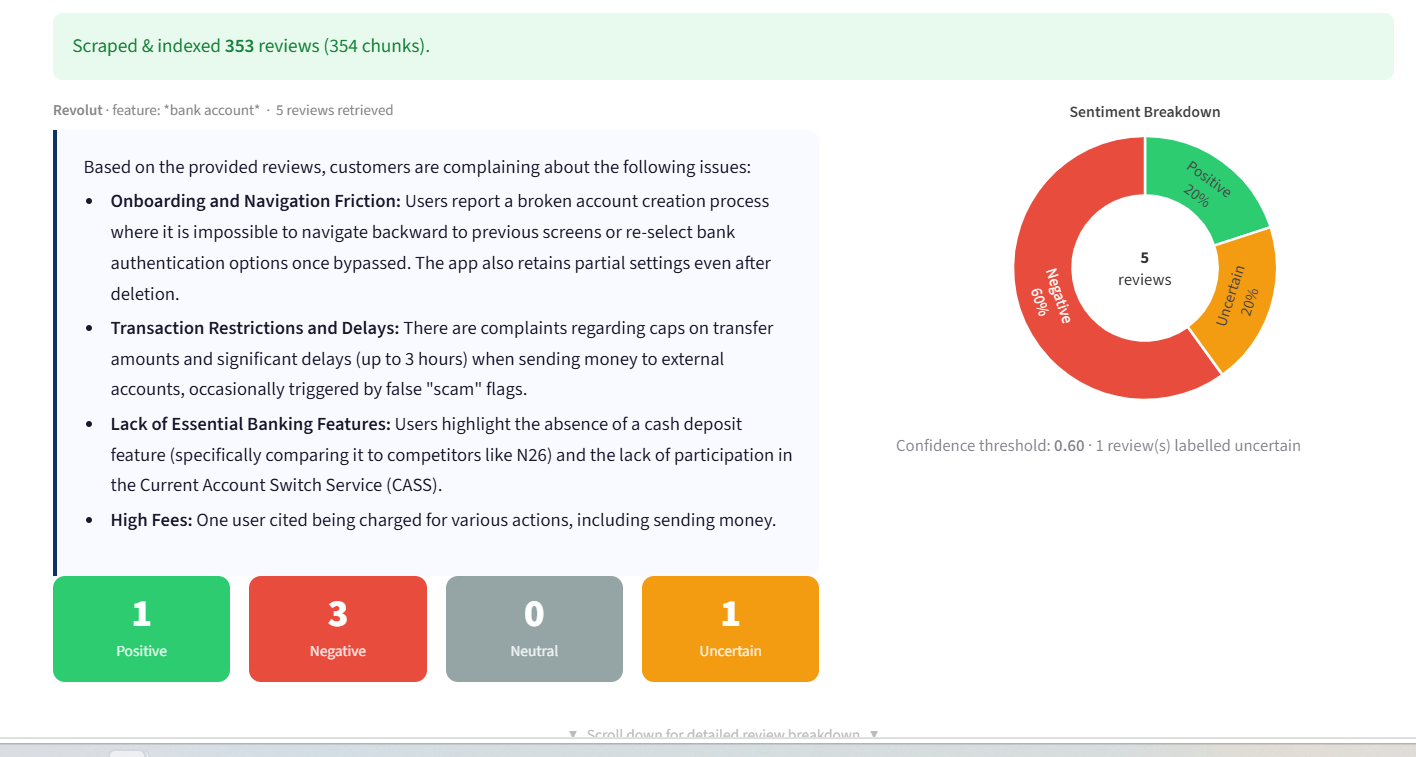
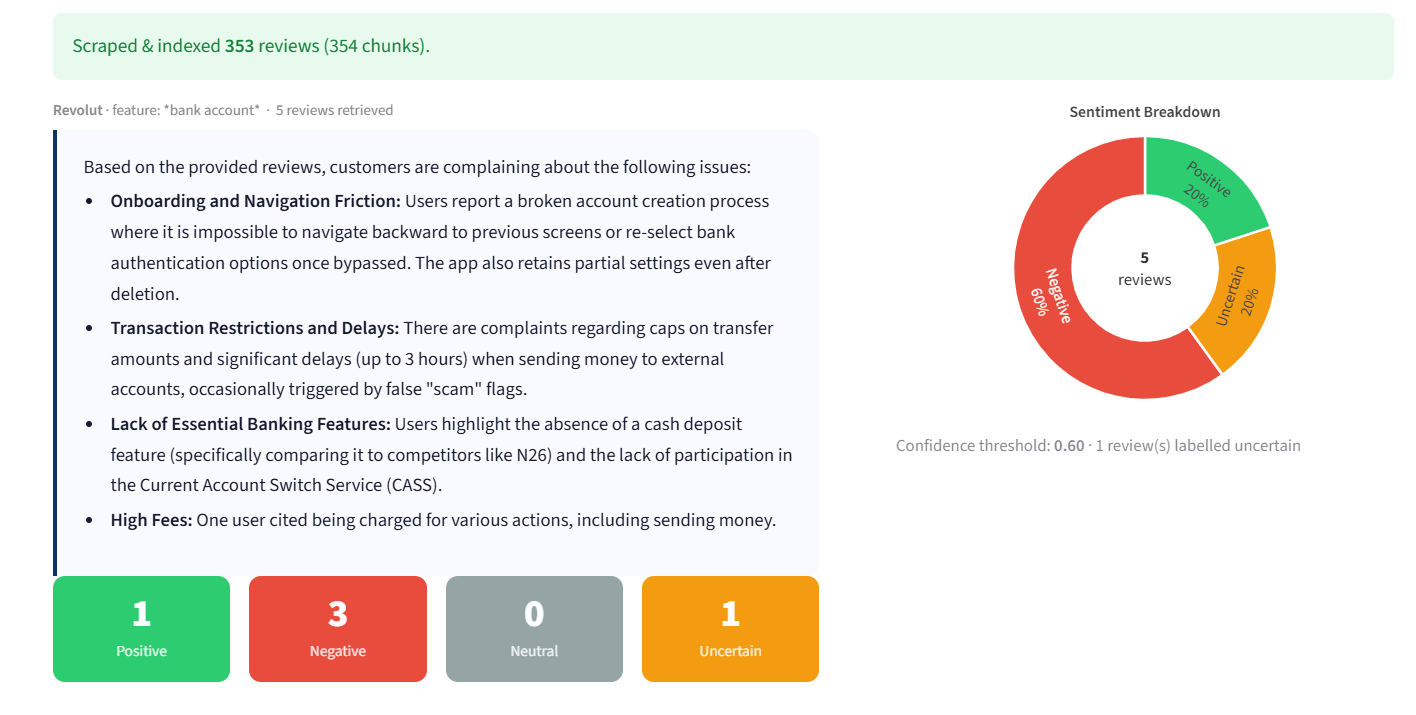
Fix case study layout on desktop and at phone width
- NexRead: phone screenshots in place of mostly empty desktop captures,
  Approach text left with figure right, stats strip under the title,
  divider above the closing note
- RAG: View on GitHub moved into the title block, screenshot cropped
  to remove a scrollbar artifact
- All three: minimum title size 26px so PaymentIntelligenceOS no longer
  overflows at 380px, images link to the full-size file, tighter
  section spacing below 640px

diff --git a/case-studies/nexread.html b/case-studies/nexread.html
@@ -41,7 +41,7 @@ p{margin:0}
 
 /* hero */
 .hero{display:flex;flex-direction:column;gap:24px;padding:72px 0 56px;border-bottom:2px solid var(--rule)}
-.hero h1{font-size:clamp(34px,5.6vw,64px);line-height:1;letter-spacing:-.035em;max-width:20ch}
+.hero h1{font-size:clamp(26px,5.6vw,64px);line-height:1;letter-spacing:-.035em;max-width:20ch}
 .hero p{max-width:60ch;font-size:clamp(17px,2vw,21px);line-height:1.5;color:var(--ink-2);text-wrap:pretty}
 .tags{display:flex;flex-wrap:wrap;gap:8px}
 .tag{font-size:12px;letter-spacing:.1em;text-transform:uppercase;font-weight:700;padding:6px 10px;background:var(--accent-200);color:var(--accent-800)}
@@ -72,6 +72,9 @@ footer{padding:28px 24px 48px;font-size:13px;color:var(--ink-3)}
 @media (max-width:860px){
   .side{grid-template-columns:1fr;gap:24px}
 }
+@media (max-width:640px){
+  .section{padding:44px 0}
+}
 
 /* stats strip */
 .stats{display:grid;grid-template-columns:repeat(3,minmax(0,1fr));border-top:2px solid var(--rule);border-bottom:2px solid var(--rule);margin-top:32px}
@@ -84,7 +87,8 @@ footer{padding:28px 24px 48px;font-size:13px;color:var(--ink-3)}
 
 /* pull quote */
 .prose p.pull{border-left:2px solid var(--accent);padding:2px 0 2px 20px;color:var(--ink);font-weight:600}
-.prose p.note{font-size:13px;line-height:1.45;color:var(--ink-3)}
+.prose p.note{font-size:13px;line-height:1.45;color:var(--ink-3);border-top:2px solid var(--divider);padding-top:14px;margin-top:12px}
+.side figure.phone-fig{max-width:340px}
 
 @media (max-width:640px){
   .stats{grid-template-columns:1fr}
@@ -112,6 +116,12 @@ footer{padding:28px 24px 48px;font-size:13px;color:var(--ink-3)}
     <div class="tags"><span class="tag">AI Recommendations</span><span class="tag">LLM ranking</span><span class="tag">0 to 1</span><span class="tag">Live</span></div>
   </section>
 
+  <section class="stats">
+    <div class="stat"><b>Over 100</b><span>curated sources</span></div>
+    <div class="stat"><b>1,900+</b><span>pieces ranked</span></div>
+    <div class="stat"><b>~3s</b><span>per brief, under a penny</span></div>
+  </section>
+
   <section class="section">
     <div class="kicker">01</div>
     <h2>Problem</h2>
@@ -126,24 +136,16 @@ footer{padding:28px 24px 48px;font-size:13px;color:var(--ink-3)}
   <section class="section">
     <div class="kicker">02</div>
     <h2>Approach</h2>
-    <div class="prose">
-      <p>The input is a sentence you finish in three taps. Where you are, what you are after, and the specific thing. "I am job searching now and I am stuck on not getting screens." Six situations, each offering the intents that make sense for it, and a final blank that is either a short list or a search over the topics the library genuinely covers.</p>
-      <p>Behind it sit two halves that never run in the same place. Overnight, a pipeline reads a curated set of public sources, works out what each new piece is about, who it is pitched at and whether it has substance, and packs the result into one compact bundle. The live site loads that bundle into memory and spends one model call per visit turning the best candidates into two or three named areas, each with a match score and a one-line reason that has to point at something in the piece itself.</p>
-    </div>
-    <div class="stats">
-      <div class="stat"><b>Over 100</b><span>curated sources</span></div>
-      <div class="stat"><b>1,900+</b><span>pieces ranked</span></div>
-      <div class="stat"><b>~3s</b><span>per brief, under a penny</span></div>
-    </div>
-
     <div class="side">
-      <figure>
-        <img src="../assets/case-studies/nexread-builder.png" alt="The sentence builder partway through. The sentence reads &quot;I am job searching now and I want to what I am after&quot;, with the first answer filled in and the second blank highlighted. Below it, four choices: fix a specific problem, target a role, keep up with a field, figure out what's next. A counter reads 1 of 3 answered." width="3280" height="3312" loading="lazy" decoding="async">
-        <figcaption>The whole input. Three taps, no account, and nothing collected about the reader: no sign-in, no profile pull, no browsing history.</figcaption>
-      </figure>
       <div class="prose">
+        <p>The input is a sentence you finish in three taps. Where you are, what you are after, and the specific thing. "I am job searching now and I am stuck on not getting screens." Six situations, each offering the intents that make sense for it, and a final blank that is either a short list or a search over the topics the library genuinely covers.</p>
+        <p>Behind it sit two halves that never run in the same place. Overnight, a pipeline reads a curated set of public sources, works out what each new piece is about, who it is pitched at and whether it has substance, and packs the result into one compact bundle. The live site loads that bundle into memory and spends one model call per visit turning the best candidates into two or three named areas, each with a match score and a one-line reason that has to point at something in the piece itself.</p>
         <p>The library is a curated sample, not an index of the field. It covers product, engineering, recruiting, design, data, finance, sales, marketing, operations, people leadership, and more recently medicine, law and research, and it says "not covered yet" rather than guessing when a question falls outside that.</p>
       </div>
+      <figure class="phone-fig">
+        <a href="../assets/case-studies/nexread-phone-builder.png"><img src="../assets/case-studies/nexread-phone-builder.png" alt="The sentence builder partway through. The sentence reads &quot;I am job searching now and I want to what I am after&quot;, with the first answer filled in and the second blank highlighted. Below it, four choices: fix a specific problem, target a role, keep up with a field, figure out what's next. A counter reads 1 of 3 answered." width="2066" height="3312" loading="lazy" decoding="async"></a>
+        <figcaption>The whole input. Three taps, no account, and nothing collected about the reader: no sign-in, no profile pull, no browsing history.</figcaption>
+      </figure>
     </div>
   </section>
 
@@ -162,8 +164,8 @@ footer{padding:28px 24px 48px;font-size:13px;color:var(--ink-3)}
         <p><strong>Tell people what to skip.</strong> An optional reads section names things that are widely shared and wrong for this particular person, with the mismatch stated. No engagement-optimised feed will ever do that, which is exactly why it is worth having.</p>
         <p><strong>Collect nothing, and stay inside the rules.</strong> No account, no sign-in, no history, no IP address stored. Profiles on networks that forbid automated access are never fetched, and a site telling us not to read something is respected rather than worked around. One feature was rebuilt against a different provider mid-build for precisely that reason.</p>
       </div>
-      <figure>
-        <img src="../assets/case-studies/nexread-result.png" alt="A finished read titled &quot;Keeping up with clinical developments in medicine&quot;, built from the answers job searching now, keep up with a field, and Medicine. Two ranked newsletter pieces sit under the area heading Clinical practice updates, numbered 01 and 02. Each shows its publication, reading time, a match score and a substance score out of ten, and a one-line reason naming what the piece covers." width="3280" height="3260" loading="lazy" decoding="async">
+      <figure class="phone-fig">
+        <a href="../assets/case-studies/nexread-phone-result.png"><img src="../assets/case-studies/nexread-phone-result.png" alt="A finished read titled &quot;Keeping up with clinical developments in medicine&quot;, built from the answers job searching now, keep up with a field, and Medicine. Two ranked newsletter pieces sit under the area heading Clinical practice updates, numbered 01 and 02. Each shows its publication, reading time, a match score and a substance score out of ten, and a one-line reason naming what the piece covers." width="2066" height="3260" loading="lazy" decoding="async"></a>
         <figcaption>One brief: ranked pieces with a reason each, the area they belong to, books as background reading, and people who coach that area.</figcaption>
       </figure>
     </div>

diff --git a/case-studies/paymentintelligenceos.html b/case-studies/paymentintelligenceos.html
@@ -41,7 +41,7 @@ p{margin:0}
 
 /* hero */
 .hero{display:flex;flex-direction:column;gap:24px;padding:72px 0 56px;border-bottom:2px solid var(--rule)}
-.hero h1{font-size:clamp(34px,5.6vw,64px);line-height:1;letter-spacing:-.035em;max-width:20ch}
+.hero h1{font-size:clamp(26px,5.6vw,64px);line-height:1;letter-spacing:-.035em;max-width:20ch}
 .hero p{max-width:60ch;font-size:clamp(17px,2vw,21px);line-height:1.5;color:var(--ink-2);text-wrap:pretty}
 .tags{display:flex;flex-wrap:wrap;gap:8px}
 .tag{font-size:12px;letter-spacing:.1em;text-transform:uppercase;font-weight:700;padding:6px 10px;background:var(--accent-200);color:var(--accent-800)}
@@ -71,6 +71,9 @@ footer{padding:28px 24px 48px;font-size:13px;color:var(--ink-3)}
 
 @media (max-width:860px){
   .side{grid-template-columns:1fr;gap:24px}
+}
+@media (max-width:640px){
+  .section{padding:44px 0}
 }
 </style>
 </head>
@@ -109,7 +112,7 @@ footer{padding:28px 24px 48px;font-size:13px;color:var(--ink-3)}
       <p>Fifty merchants across the US, Canada, the UK, Japan and India. Forty-eight crawled cleanly. 170 signatures covering 61 vendors across platform, PSP, wallet, BNPL and checkout vendor. Fifty merchants is a sample, not a census. The regional finding below is a hypothesis worth testing at scale, not a market statistic.</p>
     </div>
     <figure>
-      <img src="../assets/case-studies/pio-explorer.png" alt="The PaymentIntelligenceOS merchant explorer: filter facets counting country, platform, PSP, wallet, BNPL and checkout vendor, above a table of crawled merchants where inferred detections carry an INFERRED label.">
+      <a href="../assets/case-studies/pio-explorer.png"><img src="../assets/case-studies/pio-explorer.png" alt="The PaymentIntelligenceOS merchant explorer: filter facets counting country, platform, PSP, wallet, BNPL and checkout vendor, above a table of crawled merchants where inferred detections carry an INFERRED label."></a>
       <figcaption>The explorer: every facet counted across the sample, and each detection carrying its state — sighted, possible or inferred — in the row itself rather than in a footnote.</figcaption>
     </figure>
   </section>
@@ -123,7 +126,7 @@ footer{padding:28px 24px 48px;font-size:13px;color:var(--ink-3)}
         <p><strong>Three states, not one.</strong> Sighted, possible and inferred are recorded separately and shown separately. This matters most for PSP: on a Shopify store the processor cannot be sighted at all, because Shopify Payments is server-side and emits no client-side script. PSP coverage is 10 percent sighted and 75 percent once the platform-native inference is applied. Reporting only the higher number would have been the flattering choice and the wrong one.</p>
       </div>
       <figure>
-        <img src="../assets/case-studies/pio-merchant-herschel.png" alt="Merchant detail for herschel.com, showing Stripe sighted as the PSP with an evidence row citing psp.stripe.js on the payment_info page.">
+        <a href="../assets/case-studies/pio-merchant-herschel.png"><img src="../assets/case-studies/pio-merchant-herschel.png" alt="Merchant detail for herschel.com, showing Stripe sighted as the PSP with an evidence row citing psp.stripe.js on the payment_info page."></a>
         <figcaption>herschel.com, the 10 percent case: the PSP is sighted, not assumed — <code>psp.stripe.js</code> firing on the payment-info page, with the matched snippet stored next to it.</figcaption>
       </figure>
     </div>
@@ -145,7 +148,7 @@ footer{padding:28px 24px 48px;font-size:13px;color:var(--ink-3)}
         <p>The finding worth the whole exercise is regional. Half the Indian merchants sampled, five of ten, run a third-party checkout vendor between the store and the PSP: GoKwik on all five, with Shopflo showing as a weaker signal on one of them. That layer appears on no merchant in the other four countries. It changes who the commercial conversation is with, because the checkout vendor owns the payment method mix that the PSP used to own.</p>
       </div>
       <figure>
-        <img src="../assets/case-studies/pio-merchant-gokwik.png" alt="Merchant detail for beminimalist.co in India, showing GoKwik sighted as the checkout vendor, Shopflo marked possible, and the PSP only inferred from the platform.">
+        <a href="../assets/case-studies/pio-merchant-gokwik.png"><img src="../assets/case-studies/pio-merchant-gokwik.png" alt="Merchant detail for beminimalist.co in India, showing GoKwik sighted as the checkout vendor, Shopflo marked possible, and the PSP only inferred from the platform."></a>
         <figcaption>beminimalist.co: GoKwik sighted as the checkout vendor, Shopflo the weaker signal beneath it, and the PSP inferred only because no external PSP script fired on any page checked.</figcaption>
       </figure>
     </div>

diff --git a/case-studies/competitive-intel-rag.html b/case-studies/competitive-intel-rag.html
@@ -41,7 +41,8 @@ p{margin:0}
 
 /* hero */
 .hero{display:flex;flex-direction:column;gap:24px;padding:72px 0 56px;border-bottom:2px solid var(--rule)}
-.hero h1{font-size:clamp(34px,5.6vw,64px);line-height:1;letter-spacing:-.035em;max-width:20ch}
+.hero h1{font-size:clamp(26px,5.6vw,64px);line-height:1;letter-spacing:-.035em;max-width:20ch}
+.hero .link-underline{align-self:flex-start}
 .hero p{max-width:60ch;font-size:clamp(17px,2vw,21px);line-height:1.5;color:var(--ink-2);text-wrap:pretty}
 .tags{display:flex;flex-wrap:wrap;gap:8px}
 .tag{font-size:12px;letter-spacing:.1em;text-transform:uppercase;font-weight:700;padding:6px 10px;background:var(--accent-200);color:var(--accent-800)}
@@ -71,6 +72,9 @@ footer{padding:28px 24px 48px;font-size:13px;color:var(--ink-3)}
 
 @media (max-width:860px){
   .side{grid-template-columns:1fr;gap:24px}
+}
+@media (max-width:640px){
+  .section{padding:44px 0}
 }
 
 /* stats strip */
@@ -113,6 +117,7 @@ footer{padding:28px 24px 48px;font-size:13px;color:var(--ink-3)}
       <span class="tag">AI/ML</span>
       <span class="tag">0 to 1</span>
     </div>
+    <a class="link-underline" href="https://github.com/SaurabhS-pm/competitive-intel-rag">View on GitHub</a>
   </section>
 
   <section class="stats">
@@ -140,7 +145,7 @@ footer{padding:28px 24px 48px;font-size:13px;color:var(--ink-3)}
       <p>Free to clone and run, which was a constraint rather than an afterthought. The intended user is another PM who wants an answer this afternoon, not a procurement conversation.</p>
     </div>
     <figure>
-      <img src="../assets/case-studies/ci-rag-app.png" alt="The app answering a question about Revolut's bank account feature. A written answer sits above a sentiment breakdown reading positive 20 percent, negative 60 percent, neutral 0 percent and uncertain 20 percent, with the sample reviews the answer was drawn from listed below." width="1416" height="757" loading="lazy" decoding="async">
+      <a href="../assets/case-studies/ci-rag-app.png"><img src="../assets/case-studies/ci-rag-app.png" alt="The app answering a question about Revolut's bank account feature. A written answer sits above a sentiment breakdown reading positive 20 percent, negative 60 percent, neutral 0 percent and uncertain 20 percent, with the sample reviews the answer was drawn from listed below." width="1416" height="715" loading="lazy" decoding="async"></a>
       <figcaption>One query against Revolut's reviews, scoped to the bank account area: a grounded answer, the sentiment split with its Uncertain bucket, and the reviews the answer was built from.</figcaption>
     </figure>
   </section>
@@ -181,7 +186,6 @@ footer{padding:28px 24px 48px;font-size:13px;color:var(--ink-3)}
 
   <div class="back">
     <a class="link-underline" href="../index.html#cases">Selected work</a>
-    <a class="link-underline" href="https://github.com/SaurabhS-pm/competitive-intel-rag">View on GitHub</a>
     <a class="link-underline" href="../index.html#contact">Get in touch</a>
   </div>
 </div>
